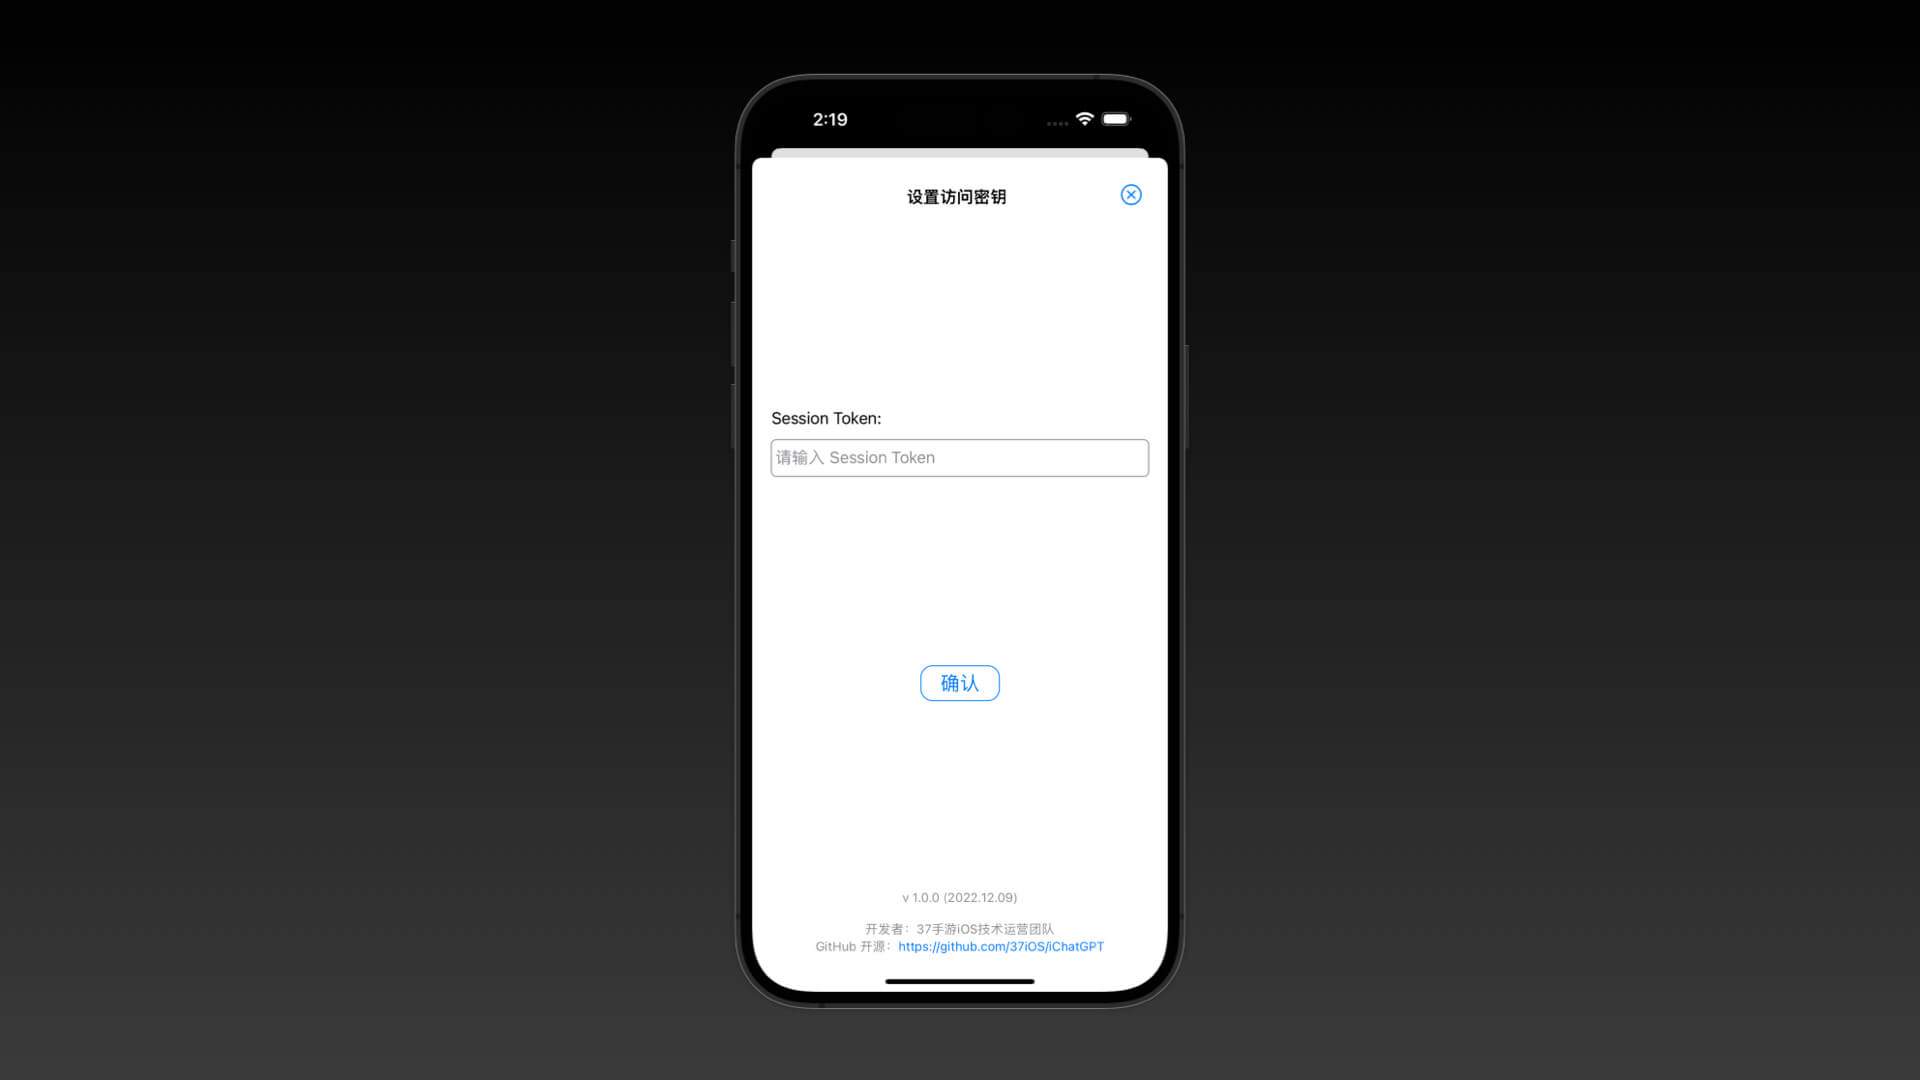
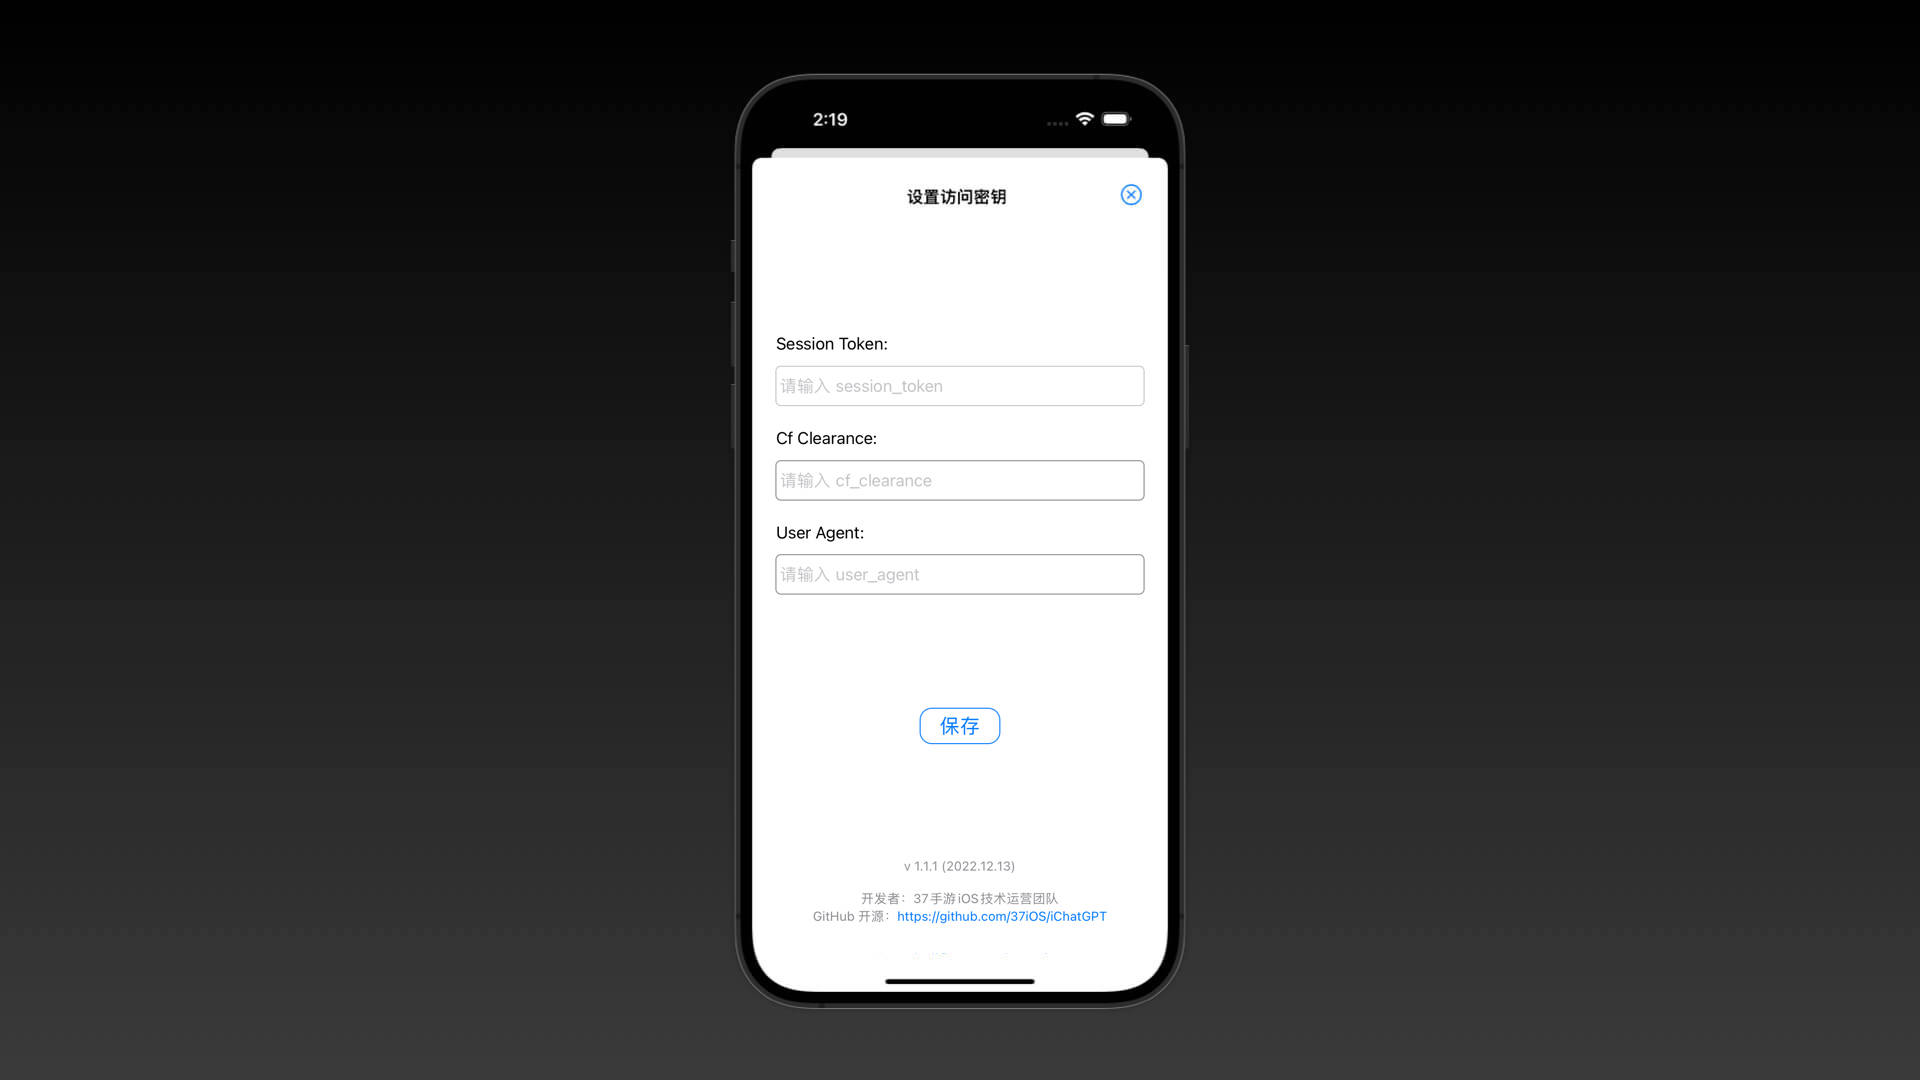
Update README

diff --git a/README.md b/README.md
@@ -8,9 +8,15 @@ OpenAI ChatGPT app for  iOS, iPadOS, macoS
 使用和原理介绍：
 - [用 SwiftUI 实现 AI 聊天对话 app - iChatGPT](https://juejin.cn/post/7175051294808211512)
 
+**更新说明**
+
+目前 v1.1.1:
+- Cloudflare cookie support
+
+
 **支持功能**
 
-目前 v1.1.0，实现 ChatGPT 基本聊天功能：
+实现 ChatGPT 基本聊天功能：
 
 * 可以直接与 ChatGPT 对话，并且保留上下文；
 * 可以复制问题和回答内容；
@@ -59,11 +65,18 @@ OpenAI ChatGPT app for  iOS, iPadOS, macoS
 - 登录 [chat.openai.com/chat](https://chat.openai.com/chat)
 - 按 `F12` 打开控制台（macOS 可以用快捷键 `command + option + I` ）
 - 切换到 `Application`(应用) 选项卡，找到 `Cookies` （Safari 浏览器是 储存空间 选项卡）
-- 复制 `__Secure-next-auth.session-token` 的值，添加到 app 后确认。
+- 复制 `__Secure-next-auth.session-token` 的值：
 
 <img src="screenshot/04.jpeg" width="800" height:auto alt="screenshot/04.jpeg"/>
 
-然后在 App 右上角图标，添加 ChatGPT SessionToken 密钥就可以正常使用：
+- 复制 `cf_clearance` 值：
+<img src="screenshot/cf_clearance.png" width="800" height:auto alt="screenshot/cf_clearance.png"/>
+
+
+- 复制 `user_agent` 值：
+<img src="screenshot/user_agent.png" width="800" height:auto alt="screenshot/user_agent.png"/>
+
+然后在 App 右上角图标，添加参考密钥，点击保存就可以正常使用：
 <img src="screenshot/03.jpeg" width="800" height:auto alt="screenshot/03.jpeg"/>
 
 
